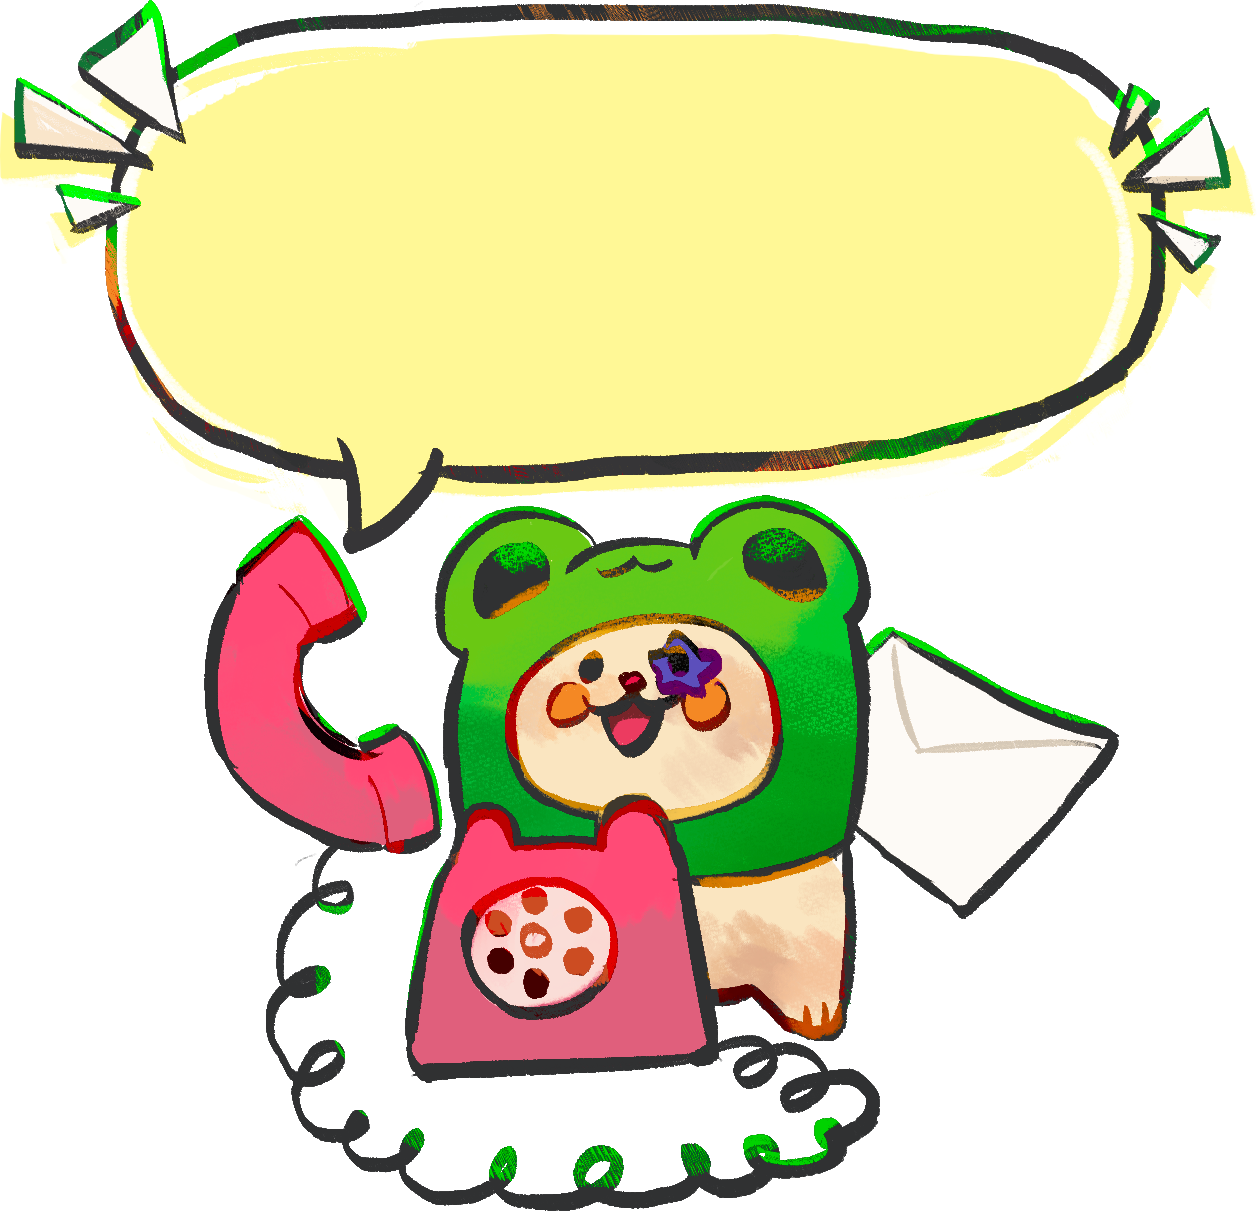
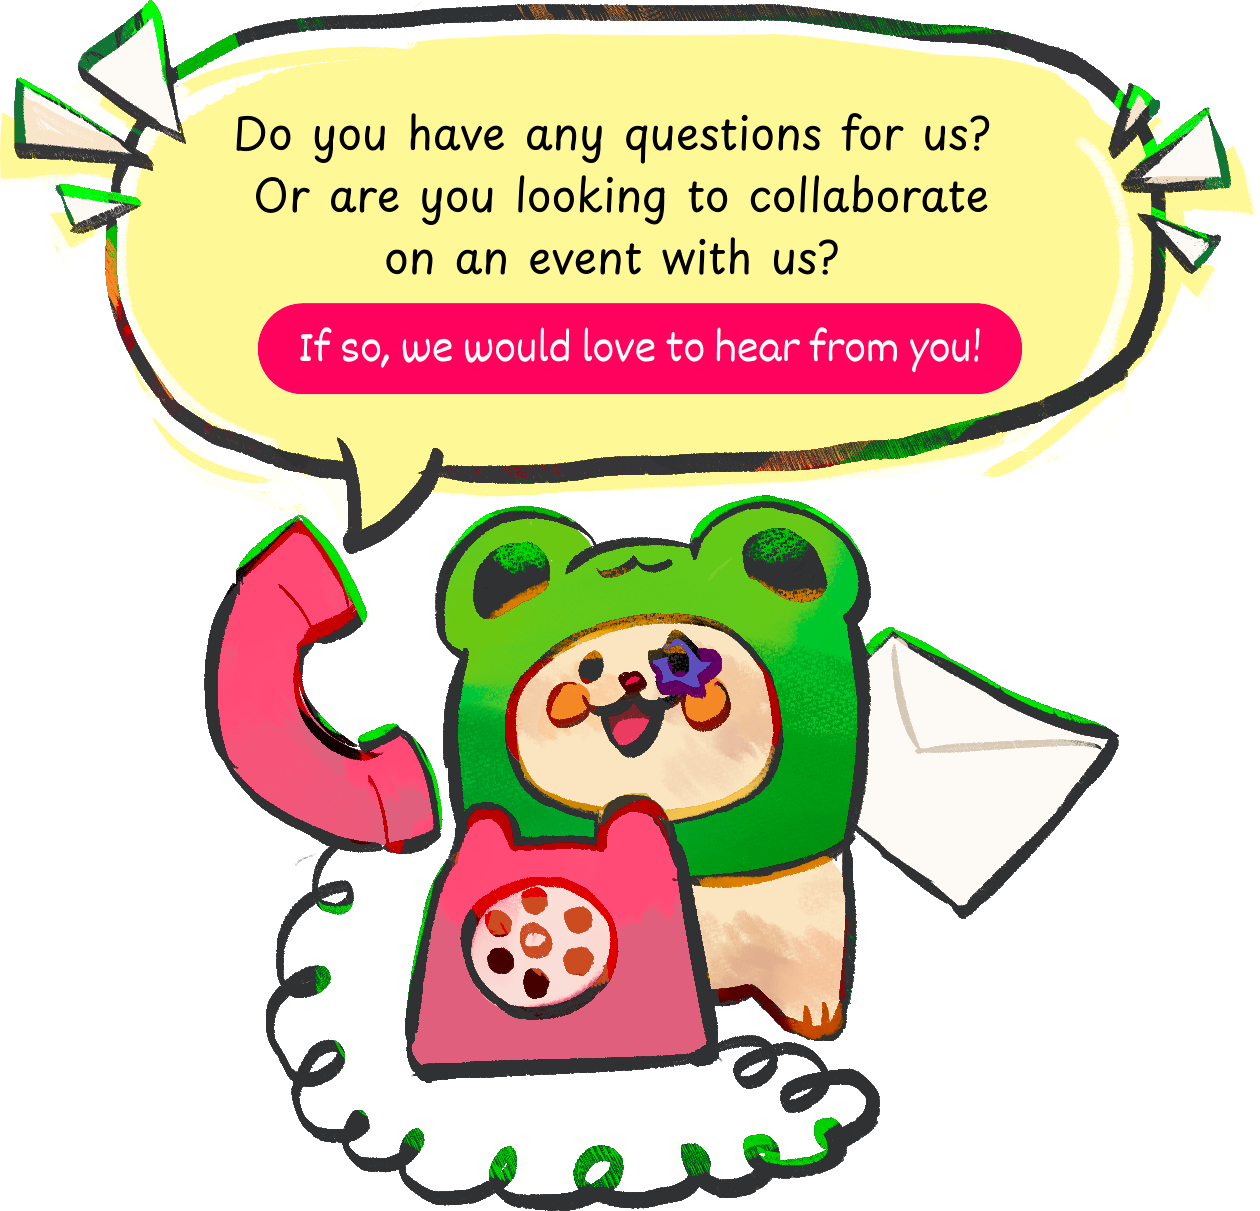
Worked more on the scaling of the Contact Us page (not finished). Also fixed the FAQ so horizontal margins update on window resize.

Changed region(s): [[0.1857, 0.0917, 0.8357, 0.3361]]

diff --git a/uoft_vac/app/contact-us/page.tsx b/uoft_vac/app/contact-us/page.tsx
@@ -18,7 +18,7 @@ export default function ContactUsPage() {
             <SectionTitle
                 graphic="/title-contact-us.png"
                 size="125px"
-                margin="mb-5"
+                margin=""
             >
                 Contact Us!
             </SectionTitle>
@@ -26,29 +26,21 @@ export default function ContactUsPage() {
             {/* Two halves */}
             <div className="flex flex-1 w-full">
                 {/* Left: graphic */}
-                <div className="flex-1 relative flex justify-end">
-                    <div className="w-[90%] h-[80%] relative rounded-md overflow-hidden">
+                <div className="flex-1 relative flex justify-end border">
+                    <div className="w-full h-full">
                         {/* Graphic */}
                         <Image
                             src="/contact-us-graphic.png"
                             alt="Contact Us Graphic"
                             fill
-                            className="object-contain"
+                            className="my-5 object-top object-contain"
                             priority
                         />
-
-                        {/* Text */}
-                        <p className="relative z-10 text-[1.5rem] text-center m-5">
-                            Do you have any <strong>questions</strong> for us? Or are you
-                            looking to{" "}
-                            <strong>collaborate on an event</strong> with us? If so, we
-                            would love to hear from you!
-                        </p>
                     </div>
                 </div>
 
                 {/* Right: contact info */}
-                <div className="flex-1 relative flex flex-col items-center">
+                <div className="flex-1 relative flex flex-col items-center border">
                     <p className="text-[3rem] font-semibold">
                         You can reach us by:
                     </p>
@@ -56,7 +48,7 @@ export default function ContactUsPage() {
                     {/* Bullet 1 */}
                     <div
                         className="absolute flex items-center"
-                        style={{ top: "10%", left: "25%", transform: "rotate(-2deg)" }}
+                        style={{ top: "15%", transform: "rotate(-2deg)" }}
                     >
                         <p className="text-[2rem]">
                             • Writing us an{" "}
@@ -73,7 +65,7 @@ export default function ContactUsPage() {
                     {/* Bullet 2 */}
                     <div
                         className="absolute flex items-center"
-                        style={{ top: "30%", left: "30%", transform: "rotate(1.5deg)" }}
+                        style={{ top: "35%", transform: "rotate(1.5deg)" }}
                     >
                         <p className="text-[2rem]">
                             • Sending us a message on{" "}
@@ -90,11 +82,12 @@ export default function ContactUsPage() {
                     {/* Bullet 3 */}
                     <div
                         className="absolute flex items-center"
-                        style={{ top: "60%", left: "25%", transform: "rotate(-3deg)" }}
+                        style={{ top: "60%", transform: "rotate(-3deg)" }}
                     >
                         <p className="text-[2rem]">
-                            • Ping the <strong>@President</strong> or{" "}
-                            <strong>@Vice-President</strong> role on{" "}
+                            • Ping the <strong>@President</strong> or <strong>@Vice-President</strong>
+                            <br/>
+                            role on{" "}
                             <TextLink
                                 text="Discord"
                                 href={DISCORD_LINK}

diff --git a/uoft_vac/app/faq/FAQs.tsx b/uoft_vac/app/faq/FAQs.tsx
@@ -10,14 +10,14 @@ import {
 import TextLink from "../common/TextLink";
 
 export interface FAQProps {
-    q: string;
-    a: ReactNode;
+    question: string;
+    answer: ReactNode;
 }
 
 export const faqs: FAQProps[] = [
     {
-        q: "How do I join VAC?",
-        a: <>
+        question: "How do I join VAC?",
+        answer: <>
         Simply follow the instructions{" "}
         <TextLink
             text="here"
@@ -31,8 +31,8 @@ export const faqs: FAQProps[] = [
     },
 
     {
-        q: "Is this club active?",
-        a: <>
+        question: "Is this club active?",
+        answer: <>
         Yes! VAC is active for both Fall and Winter semesters of the new school year. Please check{" "}
         our announcements on{" "}
         <TextLink
@@ -53,8 +53,8 @@ export const faqs: FAQProps[] = [
     },
 
     {
-        q: "Are there any fees to pay as a club member?",
-        a: <>
+        question: "Are there any fees to pay as a club member?",
+        answer: <>
         Joining VAC is totally free! Most of our events are also free, with the exception of some{" "}
         special events, where snacks and/or more expensive supplies are provided. The fee will be{" "}
         specified when such events are announced.
@@ -62,30 +62,30 @@ export const faqs: FAQProps[] = [
     },
 
     {
-        q: "What is the required skill level to join VAC?",
-        a: <>
+        question: "What is the required skill level to join VAC?",
+        answer: <>
         We welcome artists of all skill levels here! Our events are also planned with this in mind : )
         </>,
     },
 
     {
-        q: "Which art media and/or art styles are promoted at VAC?",
-        a: <>
+        question: "Which art media and/or art styles are promoted at VAC?",
+        answer: <>
         VAC welcomes all artists, regardless of their preferred art medium and art style. Our{" "}
         events also incorporate and embrace various art media and art styles.
         </>
     },
 
     {
-        q: "Do I have to bring my own art supplies to VAC events?",
-        a: <>
+        question: "Do I have to bring my own art supplies to VAC events?",
+        answer: <>
         We always provide art supplies to our events, but you are free to also bring your own.
         </>,
     },
 
     {
-        q: "Can UTM and UTSC students join VAC?",
-        a: <>
+        question: "Can UTM and UTSC students join VAC?",
+        answer: <>
         Yes! You are free to join VAC even if you are not from UTSG. Please note that our weekly{" "}
         events are however usually held at UTSG. If you are from UTSC, you might be interested{" "}
         in checking out UTSC VAC instead.
@@ -93,8 +93,8 @@ export const faqs: FAQProps[] = [
     },
 
     {
-        q: "Can alumni students join VAC?",
-        a: <>
+        question: "Can alumni students join VAC?",
+        answer: <>
         Yes! While our in-person events are usually made for current students, you are free to{" "}
         join our Discord to hang out with everyone online. If you want to attend our in-person{" "}
         events, please make sure you come with a friend who is a current UofT student, or{" "}
@@ -110,8 +110,8 @@ export const faqs: FAQProps[] = [
     },
     
     {
-        q: "I can’t access the Discord server. Why is this happening?",
-        a: <>
+        question: "I can’t access the Discord server. Why is this happening?",
+        answer: <>
         You need to fill out our{" "}
         <TextLink
             text="membership verification form"

diff --git a/uoft_vac/app/faq/Question.tsx b/uoft_vac/app/faq/Question.tsx
@@ -5,7 +5,8 @@ import {
     MouseEvent,
     useRef,
     useState,
-    useLayoutEffect
+    useLayoutEffect,
+    useEffect,
 } from "react";
 import { motion } from "framer-motion";
 import { FaChevronDown, FaChevronRight } from "react-icons/fa";
@@ -13,22 +14,36 @@ import { FaChevronDown, FaChevronRight } from "react-icons/fa";
 import { BARS_EDGES_DARK_GREEN } from "../common/Constants";
 
 interface QuestionProps {
-    q: string;
-    a: ReactNode;
+    question: string;
+    answer: ReactNode;
     isOpen: boolean;
     onClick: (e: MouseEvent<HTMLDivElement>) => void;
     index: number;
 }
 
-export default function Question({ q, a, isOpen, onClick, index }: QuestionProps) {
+export default function Question({ question, answer, isOpen, onClick, index }: QuestionProps) {
     const ref = useRef<HTMLDivElement | null>(null);
     const [height, setHeight] = useState(0);
 
-    useLayoutEffect(() => {
+    // Additional calculated height for expanded answers.
+    const measureHeight = () => {
         if (ref.current) {
             setHeight(ref.current.scrollHeight);
         }
-    }, [a]);
+    };
+
+    // Measure on expand / collapse.
+    useLayoutEffect(() => {
+        measureHeight();
+    }, [answer]);
+
+    // Measure on window resize.
+    useEffect(() => {
+        if (!isOpen) return;
+
+        window.addEventListener("resize", measureHeight);
+        return () => window.removeEventListener("resize", measureHeight);
+    }, [isOpen]);
 
     return (
         <div
@@ -38,21 +53,18 @@ export default function Question({ q, a, isOpen, onClick, index }: QuestionProps
                 borderTop: index === 0 ? "none" : `1px solid ${BARS_EDGES_DARK_GREEN}`,
             }}
         >
-            {/* Question container */}
-            <div className="flex justify-between items-center">
+            {/* Question */}
+            <div className="mb-5 flex justify-between items-center">
+                <span className="text-[1.5rem] font-semibold">{question}</span>
 
-                {/* Question */}
-                <span className="text-[1.5rem] font-semibold">{q}</span>
-
-                {isOpen ? ( // Right arrow if collapsed.
+                {isOpen ? (
                     <FaChevronRight className="w-5 h-5" style={{ color: BARS_EDGES_DARK_GREEN }} />
-                    
-                ) : ( // Down arrow if expanded.
+                ) : (
                     <FaChevronDown className="w-5 h-5" style={{ color: BARS_EDGES_DARK_GREEN }} />
                 )}
             </div>
 
-            {/* Expand/collapse transition */}
+            {/* Expand / collapse */}
             <motion.div
                 ref={ref}
                 initial={false}
@@ -61,12 +73,10 @@ export default function Question({ q, a, isOpen, onClick, index }: QuestionProps
                     opacity: isOpen ? 1 : 0,
                 }}
                 transition={{ duration: 0.5, ease: [0.25, 1, 0.5, 1] }}
-                style={{ overflow: "hidden" }}
-                className="mt-5"
+                className="overflow-hidden"
             >
-
                 {/* Answer */}
-                <div className="text-[1.25rem] text-sm">{a}</div>
+                <div className="text-[1.25rem]">{answer}</div>
             </motion.div>
         </div>
     );

diff --git a/uoft_vac/app/faq/page.tsx b/uoft_vac/app/faq/page.tsx
@@ -28,7 +28,7 @@ export default function FAQSection() {
     return (
         // Green container
         <div
-            className="max-w-7xl rounded-2xl shadow-md p-10 my-10 mx-4 sm:mx-8 md:mx-16 lg:mx-32 xl:mx-40"
+            className="mx-[10%] my-10 p-10 rounded-4xl shadow-md"
             style={{ backgroundColor: BARS_CENTRE_GREEN }}
         >
             {/* Title */}
@@ -38,15 +38,15 @@ export default function FAQSection() {
 
             {/* Yellow container */}
             <div
-                className="rounded-xl mt-10 p-5"
+                className="rounded-3xl mt-10 px-5"
                 style={{ backgroundColor: PAGE_BUTTONS_LIGHT_YELLOW }}
             >
                 {/* Map the data in FAQs.tsx using the Question.tsx component. */}
                 {faqs.map((faq, i) => (
                     <Question
                         key={i}
-                        q={faq.q}
-                        a={faq.a}
+                        question={faq.question}
+                        answer={faq.answer}
                         isOpen={openIndex === i}
                         index={i}
                         onClick={(e) => handleClick(e, i)}
